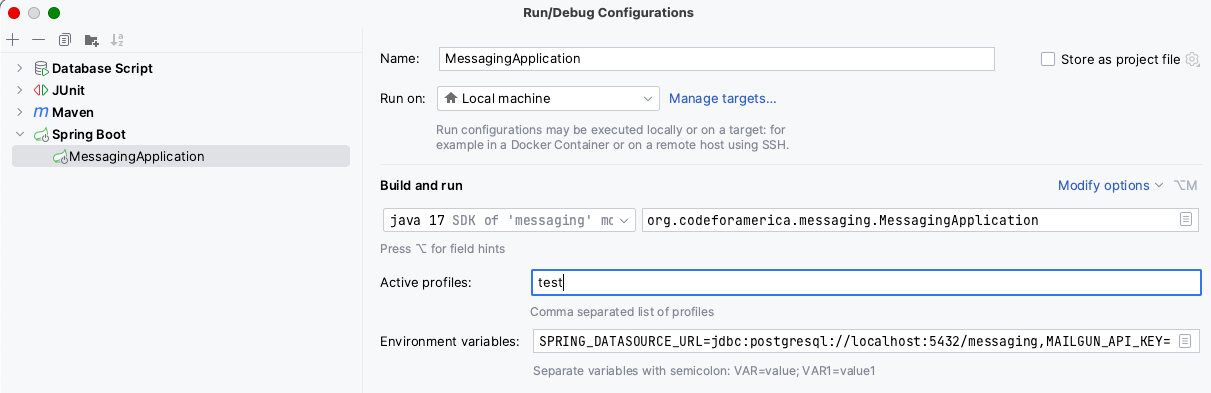
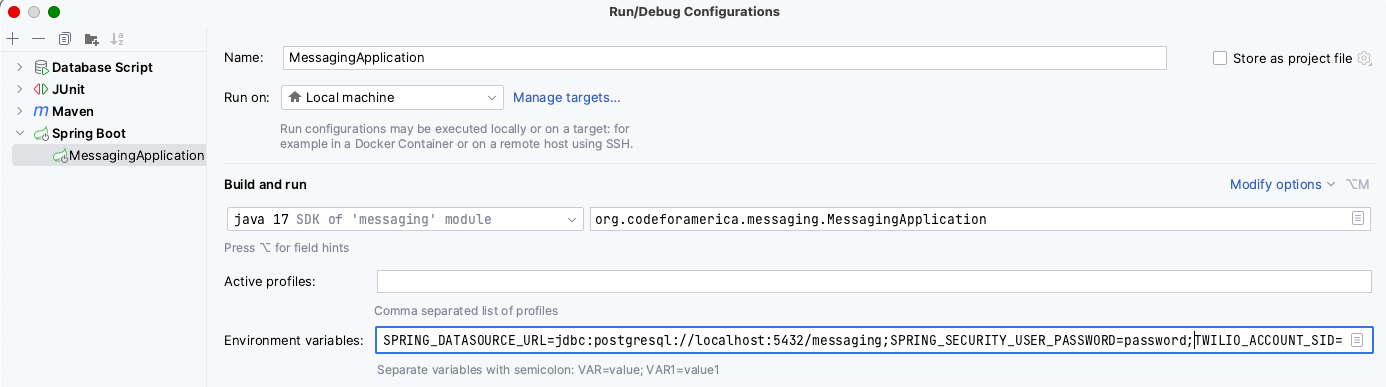
Separate Developer Guide into INSTALLING.md with improvements, add configuration table back to README.md

diff --git a/README.md b/README.md
@@ -1,7 +1,7 @@
 ![Maven Build](https://github.com/codeforamerica/messaging/actions/workflows/build.yml/badge.svg)
 
 # Description
-A messaging backend to provide a REST API for sending text messages and email.
+A messaging backend providing a REST API for sending text messages and email.
 It supports both transactional messages and bulk sending.
 
 # Stack
@@ -11,107 +11,45 @@ It supports both transactional messages and bulk sending.
 - Spring Boot 3.x
     - Spring Data JPA
 - PostgreSQL
-- Flyway
-- Maven
-- Aptible
 
 #### Integration
 - SMS: Twilio
 - Email: Mailgun
-- (TBD) Salesforce/Mulesoft
 
-#### Important Libraries
+#### Important Tools & Libraries
+- Flyway
+- Maven
+- Aptible
 - JobRunr
 - Lombok annotations
 - Handlebars (Mustache)
 - Apache Commons CSV
 
-# Developer Setup
-
-For simplicity, this guide will make some assumptions. If you need additional support getting set up, 
-reach out.
-* MacOS
-* IDEA IntelliJ IDE
-
-## Basic Steps
-1. Clone repository
-    * URL: `https://github.com/codeforamerica/messaging.git`
-2. Configure Java JDK 
-    * Version: 17
-    * Distribution: [Eclipse Temurin](https://adoptium.net/temurin/releases/)
-        * [Determine your mac's architecture](https://docs.cse.lehigh.edu/determine-mac-architecture/) before choosing a download 
-    * Ensure your Project Structure has the correct SDK chosen in case you have multiple versions downloaded
-    * ![](readme_img2.png)
-3. Setup PostgreSQL Databases
-    * Unit tests are not run against an in-memory database, you will have to create one for the tests to use
-      * Test database = `jdbc:postgresql://localhost:5432/messaging_test`
-    * To run the application locally, you will need to create a second database
-      * Local database = `jdbc:postgresql://localhost:5432/messaging`
-    * The database in the deployed environment (i.e. Staging) can be tunneled into using Aptible credentials
-4. Run all tests
-   * Ensure you are using the `test` [spring profile](https://docs.spring.io/spring-boot/docs/1.2.0.M1/reference/html/boot-features-profiles.html)
-   * [application-test.properties](src/main/resources/application-test.properties) sets the datasource url to `messaging_test`, in addition to other important settings
-   * Currently, this project does not have version controlled run configurations
-   * We suggest altering all [run configuration templates](https://www.jetbrains.com/help/idea/run-debug-configuration.html#templates) to use the `test` profile so that they will pick up config changes automatically
-5. Run the `MessagingApplication` locally
-   * You will also have to set up this run configuration yourself
-   * Set the spring profile to 'test'
-   * Override the database url by setting `SPRING_DATASOURCE_URL=jdbc:postgresql://localhost:5432/messaging`
-   * Any service providers you wish to integrate with will require the API keys to be set using accounts you have access to
-     * Mailgun integration requires:
-       * `MAILGUN_API_KEY`
-         * If using a sandbox environment, remember to add test recipients to the allowed recipient list
-     * Twilio integration requires:
-       * `TWILIO_ACCOUNT_SID`
-       * `TWILIO_AUTH_TOKEN`
-       * `TWILIO_MESSAGING_SERVICE_SID`
-     * Keep all of these keys safe by NEVER:
-       * Checking them in to version control
-       * Pasting them into slack/email/any non-encrypted channel
-       * Taking screenshots or pasting them into any documents
-       * Use LastPass to share secrets or pull them directly from the provider page
-         * Alert someone if you are concerned any keys have been leaked so a rotation can be performed
-         * Stolen messaging keys can result in costly misuse of our messaging platform
-   * ![](readme_img1.png)
-6. Test the API
-    * Without Twilio or Mailgun credentials setup, you won't have much to test, so make sure those services are set up first
-    * Basic auth is in place with the password being set in [application-test.properties](src/main/resources/application-test.properties)
-      * This can be changed easily, but the default credentials are "user" / "password"
-    * See the autogenerated API documentation once the app is running by going to {$BASE_URL}/docs/api/v1
-      * e.g. https://app-54372.on-aptible.com/docs/api/swagger-ui/index.html or http://localhost:8080/docs/api/v1
-    * Sending a message requires a template, so query the `templates` endpoint to get a list of usable templates
-      * Your local instance will not have any templates, so you will need to manually add one to the database
-      * See [V4_Add_template_seed_data_non_prod.sql](src/main/resources/db/migration/non-prod/V4_Add_template_seed_data_non_prod.sql) for examples
-    * Then post an individual message to `messages` or a batch to `message_batches` using a csv
-    * See [ngrok](https://ngrok.com/) for a tool that will allow you to forward your localhost instance
-      * Ngrok url can be set as the callback url with messaging providers to see message statuses
-      * Other users can test the API using your instance with the ngrok url
-
-## Help! I'm getting a 'flyway'/'dataSource' error!
-`Exception encountered during context initialization - cancelling refresh attempt: org.springframework.beans.factory.BeanCreationException: Error creating bean with name 'flyway' defined in class path resource [org/springframework/boot/autoconfigure/flyway/FlywayAutoConfiguration$FlywayConfiguration.class]: Failed to instantiate [org.flywaydb.core.Flyway]: Factory method 'flyway' threw exception with message: Error creating bean with name 'dataSource' defined in class path resource [org/springframework/boot/autoconfigure/jdbc/DataSourceConfiguration$Hikari.class]: Failed to instantiate [com.zaxxer.hikari.HikariDataSource]: Factory method 'dataSource' threw exception with message: Failed to determine a suitable driver class`
-
-If you are seeing this error, either your database setup is incomplete or the spring datasource url
-environment variable has not been correctly set for the process you are running.
-
-To verify the database being used, look for this log. The database may not be set:
-
-`o.f.c.i.database.base.BaseDatabaseType   : Database: jdbc:postgresql://localhost:5432/`...
-
-To debug how the environment variable is being set:
-1. Ensure the database exists and can be connected to
-1. Check the spring profile being used
-1. Check your run configurations
-1. Explore all custom project settings for env vars that may exist and be interfering
-
 # Configuration
+
+These environment variables are key to configuring an instance of this application and must be set 
+managed carefully.
+
+| Variable Name                 | Description                                                                                                                                                | Notes                                                                                                                                                       |
+|-------------------------------|------------------------------------------------------------------------------------------------------------------------------------------------------------|-------------------------------------------------------------------------------------------------------------------------------------------------------------|
+| FORCE_SSL                     | Disallows HTTP and redirects to HTTPS                                                                                                                      | Set to "true"                                                                                                                                               |
+| SPRING_DATASOURCE_URL         | PostgreSQL connection URI                                                                                                                                  | E.g., `jdbc:postgresql://localhost:5432/messaging`                                                                                                          |
+| SPRING_SECURITY_USER_PASSWORD | Password for Basic Authentication                                                                                                                          | Saved in a shared folder in LastPass                                                                                                                        |
+| MAILGUN_API_DOMAIN            | The appropriate Mailgun domain for the environment                                                                                                         | E.g., `sandbox610d23a2c4f441c78f8e077c7daf45e0.mailgun.org`                                                                                                 |
+| MAILGUN_API_FROM              | An email address using the Mailgun domain                                                                                                                  | E.g., `developer@sandbox610d23a2c4f441c78f8e077c7daf45e0.mailgun.org`                                                                                       |
+| MAILGUN_API_KEY               | Mailgun domain sending key                                                                                                                                 | [Retrieve from Mailgun](https://documentation.mailgun.com/en/latest/api-intro.html#authentication-1)                                                        |
+| TWILIO_ACCOUNT_SID            | The appropriate Twilio account identifier for the environment                                                                                              | [Retrieve from Twilio account home page](https://support.twilio.com/hc/en-us/articles/14726256820123-What-is-a-Twilio-Account-SID-and-where-can-I-find-it-) |
+| TWILIO_AUTH_TOKEN             | [What is an auth token?](https://www.twilio.com/docs/glossary/what-is-an-authentication-token)                                                             | Retrieve from Twilio account home page                                                                                                                      |
+| TWILIO_MESSAGING_SERVICE_SID  | [Messaging Service](https://support.twilio.com/hc/en-us/articles/223181308-Getting-started-with-Messaging-Services) identifier within the provided account | [Retrieve from Messaging Services page](https://console.twilio.com/us1/develop/sms/services)                                                                |
+
 ## Secrets
 All secrets are read from environment variables and kept out of version control. Configuration for 
-secrets required for deployment can be found in the [deploy.yml](.github/workflows/deploy.yml) file, which use 
+secrets required for deployment are set in the [deploy.yml](.github/workflows/deploy.yml) file, which use 
 encrypted secret values stored at https://github.com/codeforamerica/messaging/settings/secrets/actions. 
-Those with access can find the values needed in LastPass under the "Shared-Messaging Product" folder
+Any future secrets should be added to the table above, added to the deployment action, and stored in 
+LastPass under the "Shared-Messaging Product" folder.
 
 ## Non-secrets
-
 All other configuration is maintained in conventional Spring Boot `application.properties` with 
 `application-test` and `application-ci` variations.
 

diff --git a/INSTALLING.md b/INSTALLING.md
@@ -1,0 +1,75 @@
+# Developer Guide
+
+For simplicity, this guide will make some assumptions. If you need additional support getting set up,
+reach out.
+* MacOS
+* IDEA IntelliJ IDE
+
+## Running the app
+1. Clone repository
+    * URL: `https://github.com/codeforamerica/messaging.git`
+2. Configure Java JDK
+    * Version: 17
+    * Distribution: [Eclipse Temurin](https://adoptium.net/temurin/releases/)
+        * [Determine your mac's architecture](https://docs.cse.lehigh.edu/determine-mac-architecture/) before choosing a download
+    * Ensure your Project Structure has the correct SDK chosen in case you have multiple versions downloaded
+    * ![Setting the project structure SDK](readme_img2.png)
+3. Setup PostgreSQL Databases
+    * Unit tests are not run against an in-memory database, you will have to create one for the tests to use
+        * Test database = `jdbc:postgresql://localhost:5432/messaging_test`
+    * To run the application locally, you will need to create a second database
+        * Local database = `jdbc:postgresql://localhost:5432/messaging`
+    * The database in the deployed environment (i.e. Staging) can be tunneled into using Aptible credentials
+4. Run all tests
+    * Ensure you are using the `test` [spring profile](https://docs.spring.io/spring-boot/docs/1.2.0.M1/reference/html/boot-features-profiles.html)
+    * [application-test.properties](src/main/resources/application-test.properties) sets the datasource url to `messaging_test`, in addition to other important settings
+    * This project does not have version controlled run configurations to prevent mistakes in leaking credentials
+    * Update junit and maven [run configuration templates](https://www.jetbrains.com/help/idea/run-debug-configuration.html#templates) to use the `test` profile so that they will pick up config changes automatically
+5. Run `MessagingApplication.java`
+    * Run this in whatever way you wish, you will have set all the environment variables listed in the [README](README.md#configuration) configuration table
+    * Keep all of these keys safe by NEVER:
+        * Checking them in to version control
+        * Giving or receiving them via slack/email/any non-encrypted channel
+        * Taking screenshots or pasting them into shared documents
+    * Use LastPass to share secrets or pull them directly from the provider page
+        * Alert someone if you are concerned any keys have been leaked so a rotation can be performed
+        * Stolen messaging keys can result in costly misuse of our messaging platform
+    * ![Example IntelliJ run configuration](readme_img1.png)
+6. Test the API
+    * Without Twilio or Mailgun credentials setup, you won't have much to test, so make sure those services are set up first
+    * Basic auth is in place with the password being set in [application-test.properties](src/main/resources/application-test.properties)
+        * This can be changed easily, but the default credentials are "user" / "password"
+        * Make sure the basic auth credentials are set for every request
+    * See the autogenerated API documentation once the app is running by going to {$BASE_URL}/public/docs/api/v1
+        * e.g. https://app-54372.on-aptible.com/public/docs/api/swagger-ui/index.html or http://localhost:8080/public/docs/api/v1
+    * Sending a message requires a template, so query the `templates` endpoint to get a list of usable templates
+        * Your local instance will not have any templates, so you will need to manually add one to the database
+        * See [V4_Add_template_seed_data_non_prod.sql](src/main/resources/db/migration/non-prod/V4_Add_template_seed_data_non_prod.sql) for examples
+    * Then post an individual message to `messages` or a batch to `message_batches` using a csv
+        * Consult the Swagger/OpenAPI docs to learn how to structure your requests
+7. Configure callback URLs to see message statuses
+    * See [ngrok](https://ngrok.com/) for a tool that will allow you to forward your localhost instance
+        * Ngrok url can be set as the callback url with messaging providers to see message statuses
+        * Other users can test the API using your instance with the ngrok url
+    * Twilio
+        * Integration > Callback URL: `<your ngrok address>/public/twilio_callbacks/status`
+        * ![](readme_img3.png)
+    * Mailgun
+        * Webhooks > Test Webhook: `<your ngrok address>/public/mailgun_callbacks/status`
+        * ![](readme_img4.png)
+
+## Help! I'm getting a 'flyway'/'dataSource' error!
+`Exception encountered during context initialization - cancelling refresh attempt: org.springframework.beans.factory.BeanCreationException: Error creating bean with name 'flyway' defined in class path resource [org/springframework/boot/autoconfigure/flyway/FlywayAutoConfiguration$FlywayConfiguration.class]: Failed to instantiate [org.flywaydb.core.Flyway]: Factory method 'flyway' threw exception with message: Error creating bean with name 'dataSource' defined in class path resource [org/springframework/boot/autoconfigure/jdbc/DataSourceConfiguration$Hikari.class]: Failed to instantiate [com.zaxxer.hikari.HikariDataSource]: Factory method 'dataSource' threw exception with message: Failed to determine a suitable driver class`
+
+If you are seeing this error, either your database setup is incomplete or the spring datasource url
+environment variable has not been correctly set for the process you are running.
+
+To verify the database being used, look for this log. The database may not be set:
+
+`o.f.c.i.database.base.BaseDatabaseType   : Database: jdbc:postgresql://localhost:5432/`...
+
+To debug how the environment variable is being set:
+1. Ensure the database exists and can be connected to
+1. Check the spring profile being used
+1. Check your run configurations
+1. Explore all custom project settings for env vars that may exist and be interfering
